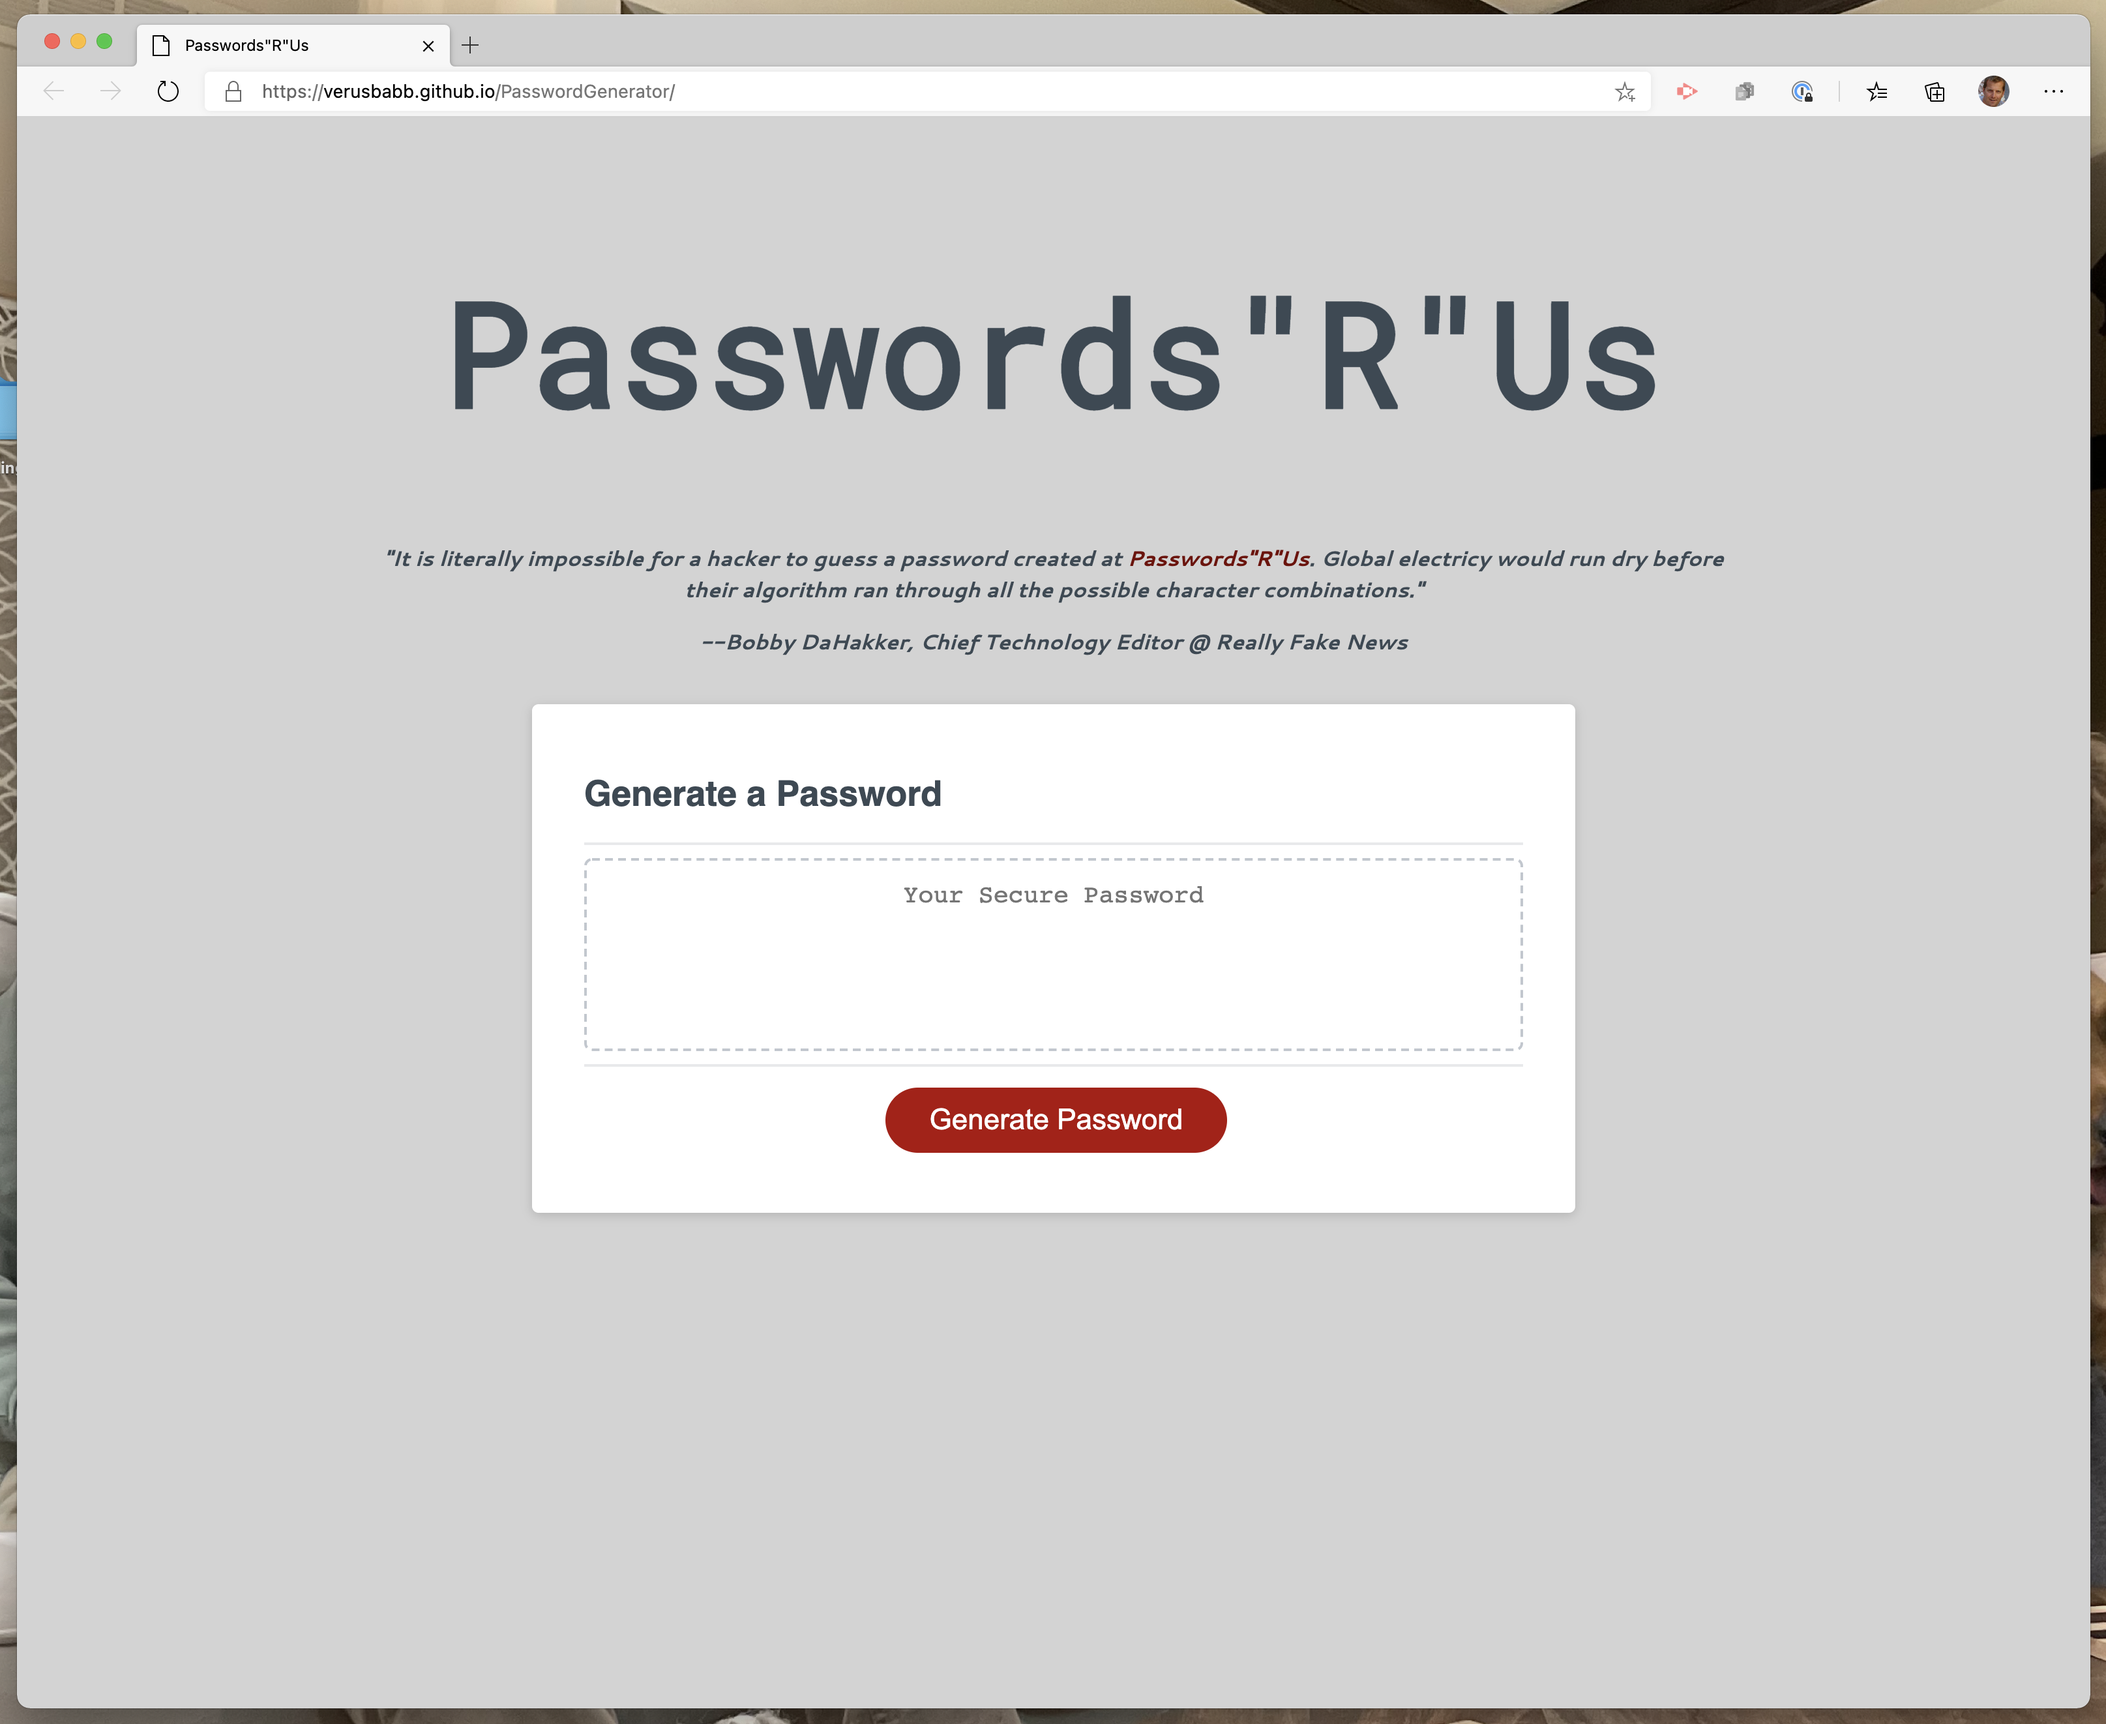
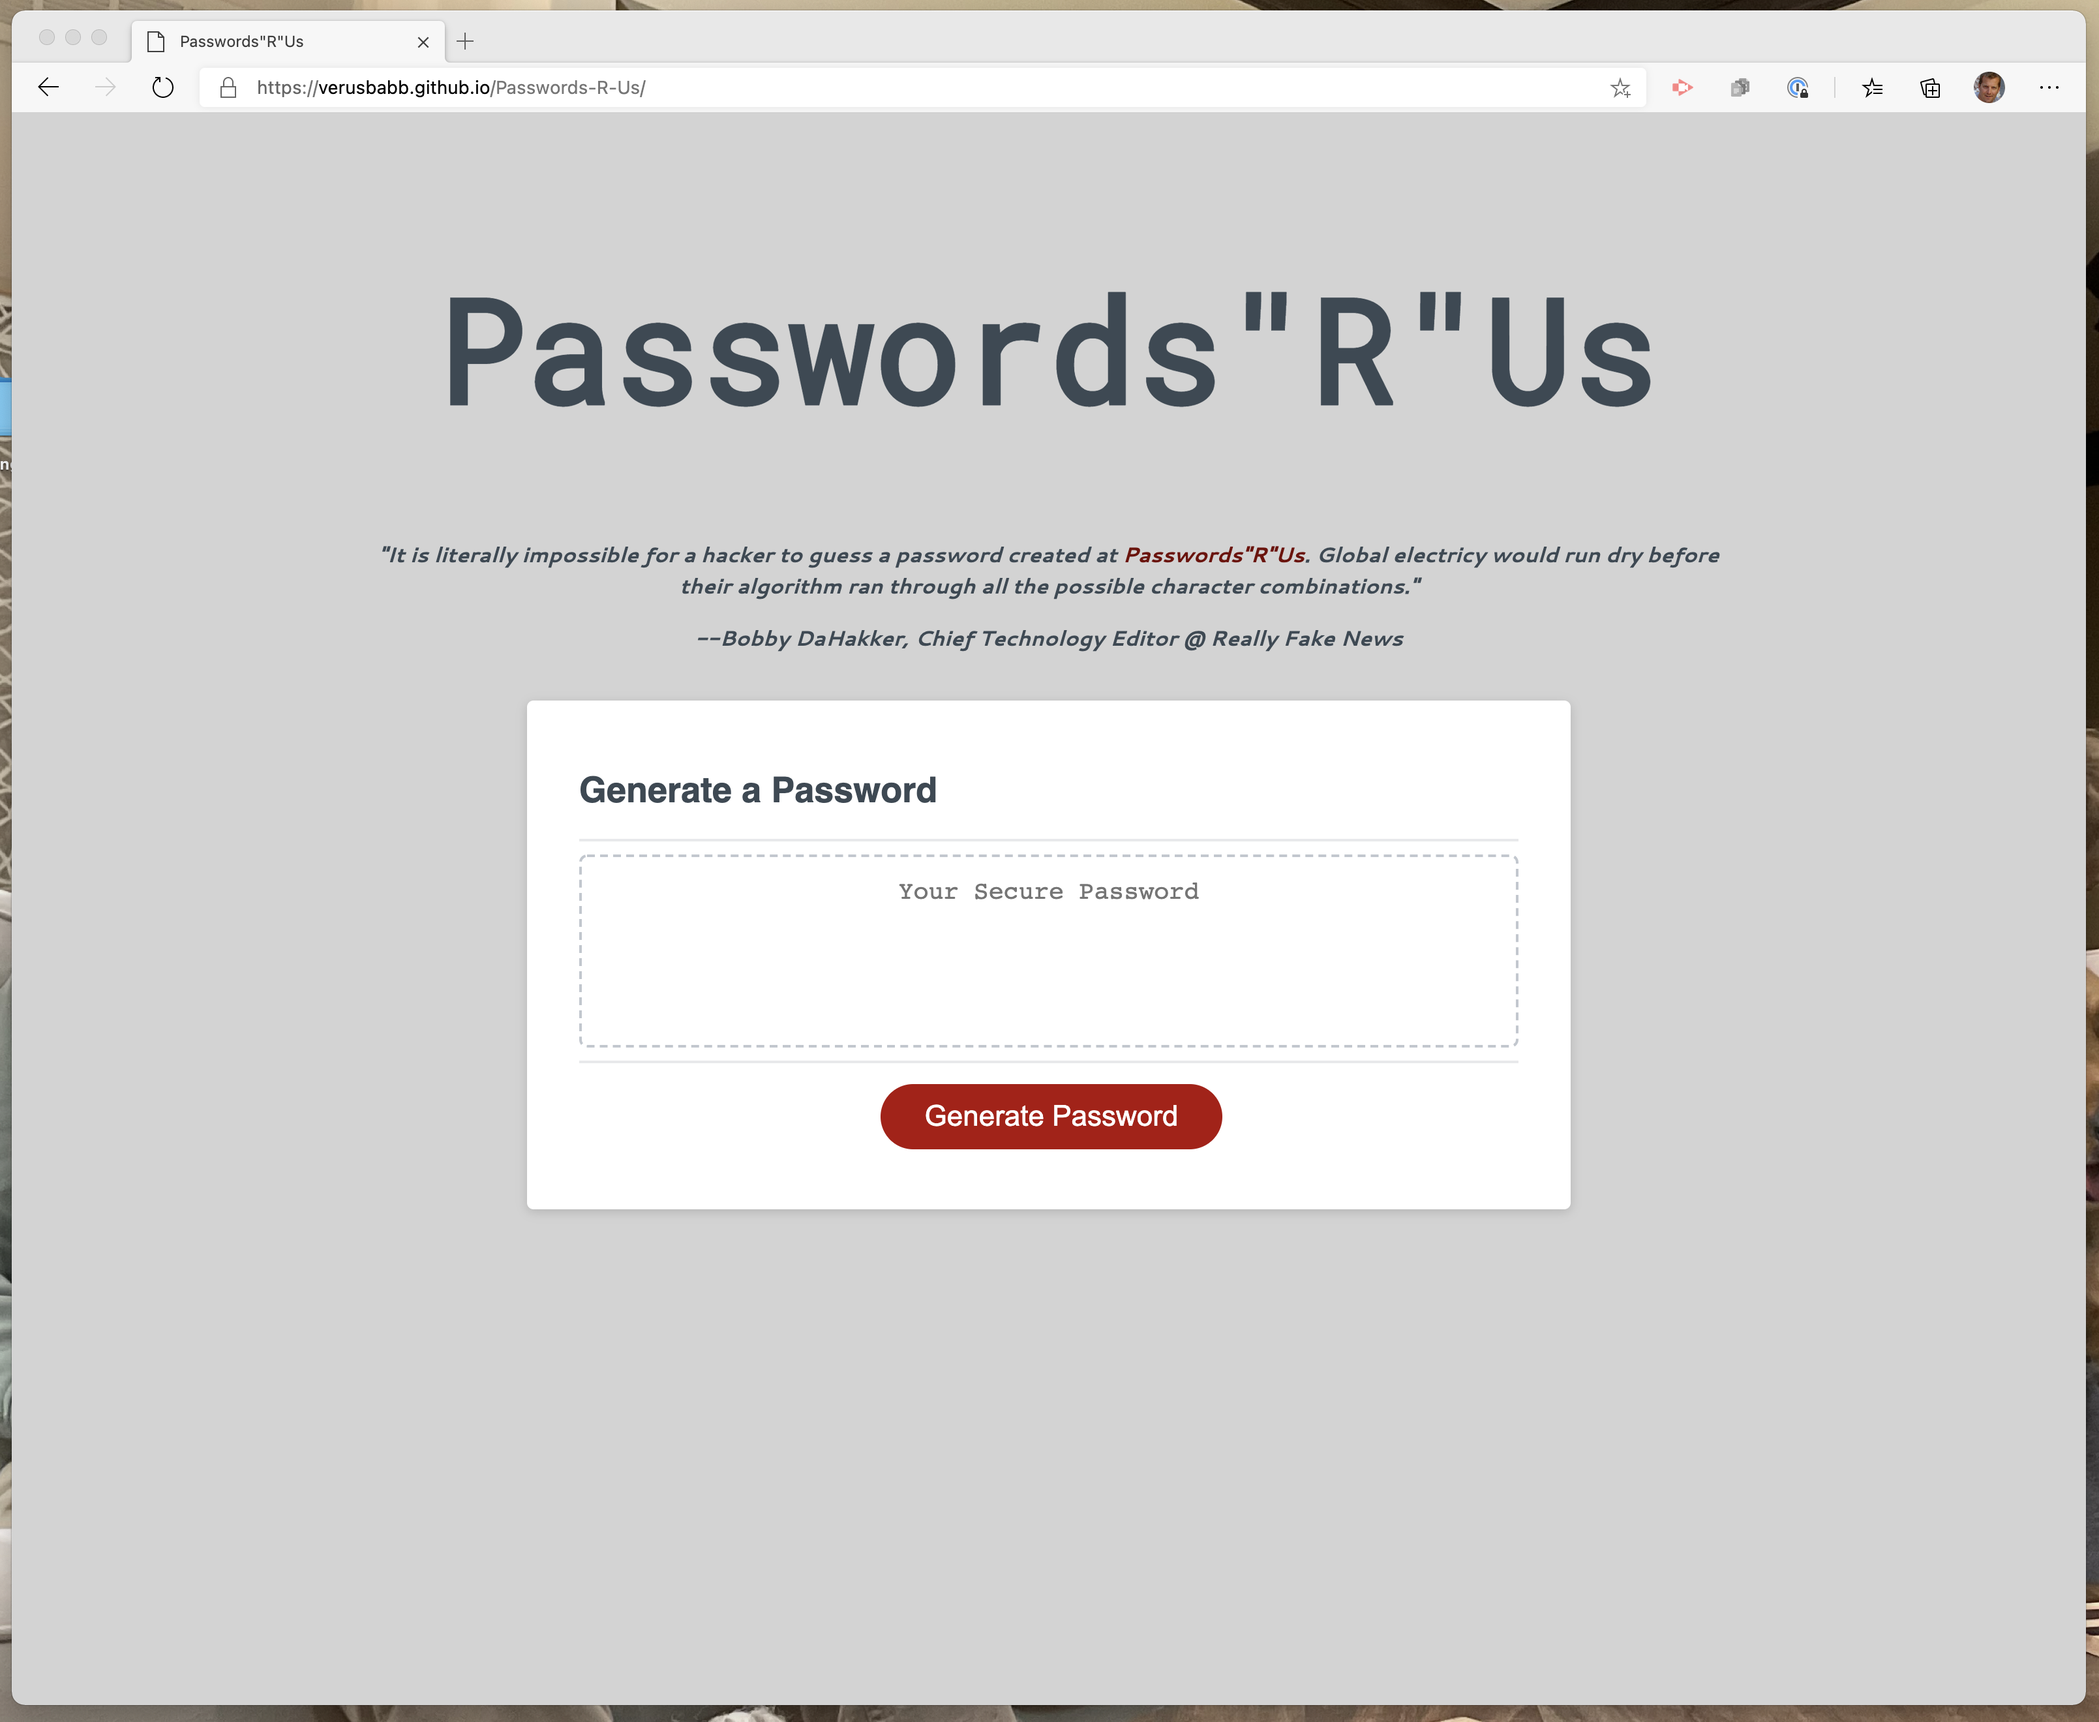
updated Assets

diff --git a/README.md b/README.md
@@ -65,11 +65,11 @@ The following images show the site working its magic at various stages:
 ## Links to Application and Repo
 Below is a link to try for yourself.  We at Passwords"R"Us stongly suggest that you bookmark this application and rely on it for generating passwords to keep your data safe from nasty intruders (tell your parents to as well):
 
-![](https://verusbabb.github.io/PasswordGenerator/)
+![](https://verusbabb.github.io/Passwords-R-Us/)
 
 Below is a link to my GitHub repo:
 
-![](https://github.com/verusbabb/PasswordGenerator)
+![](https://github.com/verusbabb/Passwords-R-Us)
 
 ----
 Contact:  Steve Babb @ steve.babb@outlook.com
